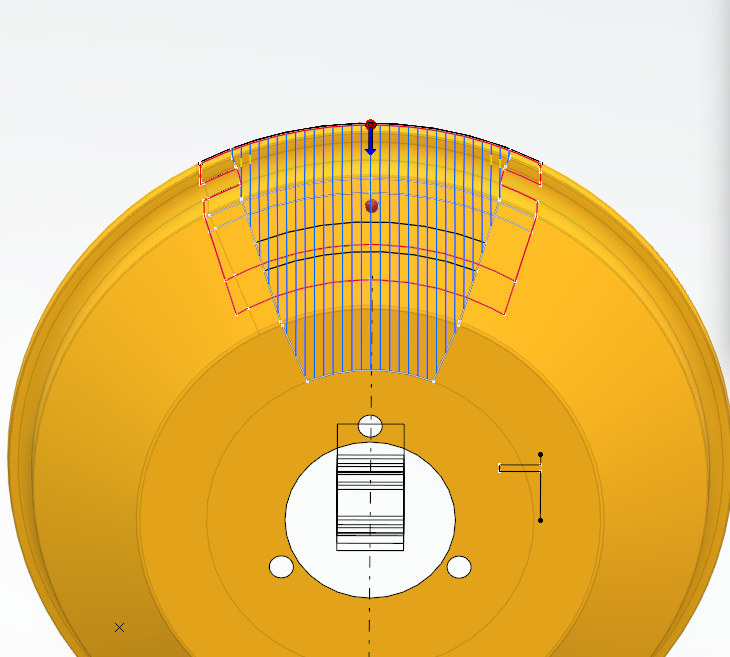
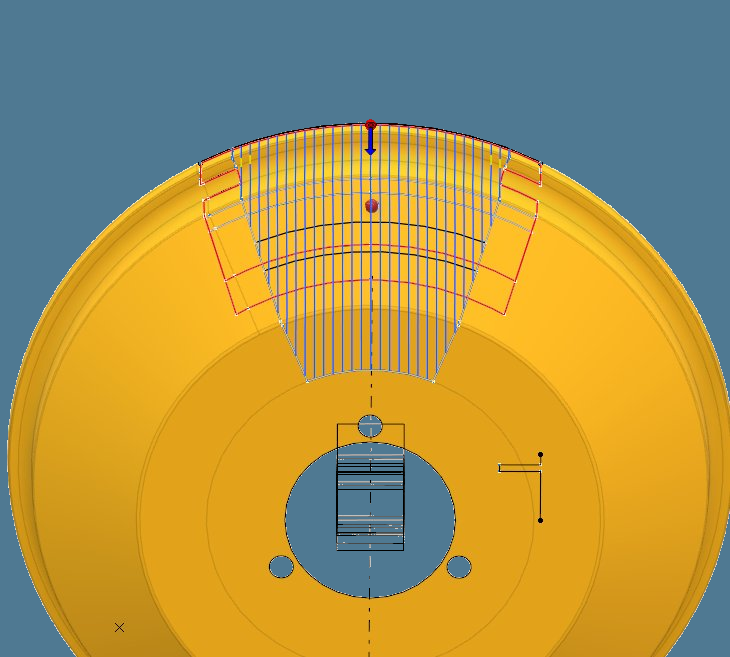
grammar and text fixes

diff --git a/index.html b/index.html
@@ -370,7 +370,8 @@
   <ul class="nav-links">
     <li><a href="#fem">FEM</a></li>
     <li><a href="#catia">CATIA</a></li>
-    <li><a href="#production">Production</a></li>
+    <!--
+    <li><a href="#production">Production</a></li>-->
     <li><a href="#dic">DIC Tool</a></li>
   </ul>
 </nav>
@@ -380,11 +381,11 @@
   <div class="container">
     <div class="hero-label">Portfolio — Motorsport Engineering</div>
     <h1 class="hero-name"> Sebastian <em> Shiels - Cobar </em></h1>
-    <p class="hero-tagline">Composite Design, Structural Analysis and Manufacturing — built for the limits of Formula 1.</p>
+    <p class="hero-tagline">Composite Design, Analysis and Research — built for the limits of Formula 1.</p>
     <div class="hero-meta">
       <div class="hero-meta-item">
         Discipline
-        <span>Structures & Composites,</span>
+        <span>Structures & Composites</span>
       </div>
       <div class="hero-meta-item">
         Focus
@@ -410,7 +411,7 @@
       <div class="content">
         <!---INTRO-->
         <p>
-          Building high strength:wieght, reliable carbon rims for competition conditions is of paramount importance to teams competing for the title of "Best in the World".
+          Building high strength to weight, reliable carbon rims for competition conditions is of paramount importance to teams competing for the title of "Best in the World".
           Thus, the top level goal with performing my FEA was to ensure the novel rim geometry would be able withstand 4kN in all 3 axis, via the design of a brand-new
           carbon fiber laminate. The following section dives deeper into the technical details surrounding meshing, composite design, analysis and the feedback loop. 
         </p>
@@ -471,7 +472,7 @@
                 <p style="margin: 0; font-size: .97rem;">The next mesh to be made was the inserts, which were placed in the pickup points for the Drivetrain. This was done via 3D HEX 
                   elements, as opposed to the 2D elements used for the carbon fiber. The pyramids visible are the FREEZE Contacts applied to the elements to simulate the contact patch between
                   the inserts and the surrounding carbon. The design of the inserts was likewise a feedback loop between observing the stresses from the FEA results, and adjusting the thickness of the walls accordingly.
-                  This was a crucial step, since the limiting stress concentrations were observed to always be around the inserts, where the composite displayed both the highest Tsai-Wu and Puck Failure values. 
+                  This was a crucial step, since the limiting stress concentrations were observed to always be around the inserts, where the composite displayed both the highest Tsai-Wu and Puck Failure Indices. 
 
 
                 </p>
@@ -497,7 +498,7 @@
               <p style="font-family: 'JetBrains Mono', monospace; font-size: .58rem; 
                         letter-spacing: .16em; text-transform: uppercase; color: #5A5248; 
                         margin-bottom: .6rem;">Laminate and Composite Design</p>
-                <p style="margin: 0; font-size: .97rem;"> The final layup was designed when all composite failure indices were within the established acceptable range. The limiting load-case was the front outer rim during a 
+                <p style="margin: 0; font-size: .97rem;"> The final layup was designed when all composite failure indices (CFI) were within the established acceptable range. The limiting load-case was the front outer rim during a 
                     maximum velocity turn with maximum steering input. For Tsai-Wu it was to be below 0.6 at all points. Furthermore, compliance was to be below 5170.55, and an additional analysis on PUCK failure modes for 
                     the UD plies had an upper bound of 0.3. The plies in red are UD oriented in the axial,
                     zero degree direction. The green are +-45 AS4C plies, the yellow are 0/90 AS4C plies and the purple plies are reinforcement patches along the flanges for the tire-mounting loadcase. Furthermore, the important
@@ -555,7 +556,7 @@
           <div style="margin-top: 1rem;">
             <p style="font-family: 'JetBrains Mono', monospace; font-size: .58rem; 
                       letter-spacing: .16em; text-transform: uppercase; color: #5A5248;">
-              FEA — Load case animation</p>
+              FEA — Bump and Braking Loadcase </p>
           </div>
 
         </div>
@@ -657,7 +658,7 @@
             <div style="display: flex; flex-direction: column; justify-content: center;">
               <p style="font-family: 'JetBrains Mono', monospace; font-size: .58rem; 
                         letter-spacing: .16em; text-transform: uppercase; color: #5A5248; 
-                        margin-bottom: .6rem;">Producibility Checks</p>
+                        margin-bottom: .6rem;">Creating DXF Files</p>
               <p style="margin: 0; font-size: .97rem;"> Finally, it was time to create the DXF files for plycutting, where the plies were projected onto a 2D plane, 
                 exactly like an unrolled sheet of carbon. Nesting efficiencies and toolpaths became important quickly, as operating within a budget means you need to 
                 waste as little carbon and time as possible. Having completed the production of the ply shapes allowed progression to the actual production plans. 
@@ -691,7 +692,7 @@
     <div class="section-body">
       <div></div>
       <div class="content">
-        <p> A large problem in the world of composite academia is understanding how fatigue effects crack propagation within carbon fiber. Working with Dr. Manoj and Dr. de Castro 
+        <p> A large problem in the world of composite academia is understanding how fatigue effects crack propagation within carbon fiber. Working with Dr. Manoj and Dr. Bernardes de Castro 
           at TU Delft's Aerospace Structures and Materials Lab on fatigue crack growth in carbon fiber led me to building the following tool.
           It takes DIC speckle pattern images from an ENF 3 point bending fatigue test, and maps the Von Misses Strain compared to an initial reference frame. It compliments standard
           compliance based methods in allowing researchers to see how and where strain is occurring. 
